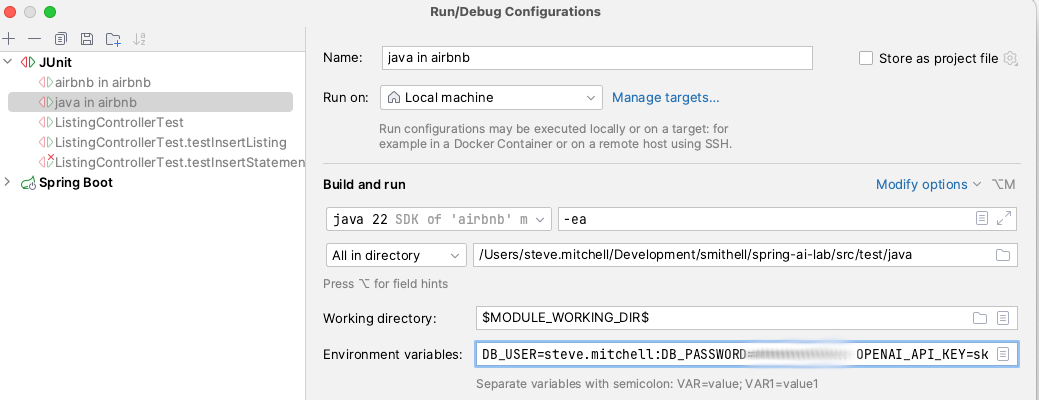
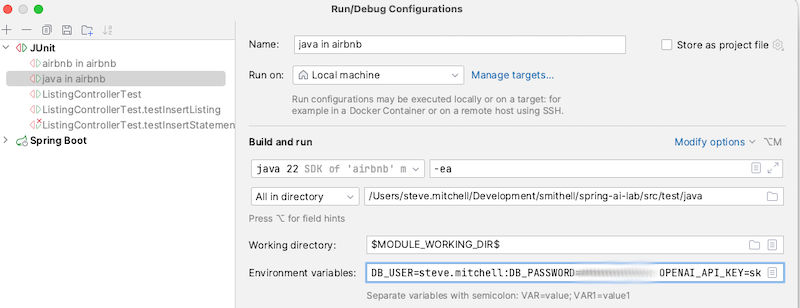
Fixed llama3 mistake in application.yml and resized images

diff --git a/README.md b/README.md
@@ -1,28 +1,32 @@
 # Spring AI Lab
+#### https://github.com/ByteworksHomeLab/spring-ai-lab
+This project is an introduction to Spring AI. It demonstrates running two LLMs, Llama 3 on the Ollama platform and OpenAI, using a combination of Maven profiles and Spring profiles to switch back and forth.
+## Audience
+The audience or this project is Spring Framework application developers who are new to artificial intelligence. It is expected that you know your way around the Spring Framework, but we don't assume any AI experience.
 
-This project configures two LLMs, Llama3 on the Ollama Platform and OpenAI, controlled with Maven and Spring profiles.
-
-# Audience
-
-The audience or this Spring Framework application developers new to artificial intelligence.
-
-# Use Cases
-
+The main takeaway is that as a Spring developer, you can start using AI in your Spring applications today as easily as you use the other Spring Framework libraries.
+## Use Cases
 Your employer asks you to:
-- Improve Customer Service by combining augmenting the company Knowledge base with AI.
-- Speed up the sales process by combining AI with a database of previously written Statements of work.
-- Improve coding efficiency and consistency by leveraging existing company code repositories and AI.
-- Host a private LLM so employees can use take advantage of AI privately, without transmitting sensitive company or client data over the public internet.
+- Improve your Spring Customer Service App by combining the company's Knowledge base with a natural language AI interface.
+- Help Sales and Marketing by enhances your Spring sales application with natural language searching of company marketing material.
+- Improve coding efficiency and consistency by embedding existing company code repositories with AI for code generation.
+- Host a private LLM (Large Language Model) so employees can use take advantage of AI internally, without transmitting sensitive company or client data over the public internet.
 
-You probably see a trend here. As a Spring Developer, you may be asked to add AI to your Spring application that augments an open source large language model with proprietary company data. These are the situations where Spring AI can help.
+You probably see a trend here. As a Spring Developer, you may be asked to add AI to your Spring application that augments an opensource large 
+language model with proprietary company data. These are the situations where Spring AI can help.
 
 ## Getting Started
 The purpose of this project is to dip your toes into the AI waters, and you'll need realistic expectations about performance.
 
 ### What about GPUs?
-The good news is that you can do this lab without a GPU as long as you have patience.
+The good news is that you can do this lab without a GPU as long as you have patience. Performance is terrible on my 2019 Intel Macbook Pro, 
+but AI response time is tolerable on my M1 MacBook Pro.
 
-[Meta's Lama 3 Requirements](https://llamaimodel.com/requirements/) say you can get by with an NVidia GeForce RTX 3000 series GPU, which has about 12 GB RAM. NLP Cloud's article [How to Install and Deploy LLaMA 3 Into Production?](https://nlpcloud.com/how-to-install-and-deploy-llama-3-into-production.html) recommends 20 GB RAM on the GPU, like an NVidia A10, for production use.
+[Meta's Lama 3 Requirements](https://llamaimodel.com/requirements/) say you can get by with an NVidia GeForce RTX 3000-series GPU, which has about 12 GB RAM. 
+NLP Cloud's article [How to Install and Deploy LLaMA 3 Into Production?](https://nlpcloud.com/how-to-install-and-deploy-llama-3-into-production.html) recommends 20 GB RAM on the GPU, like an NVidia A10, for production use. 
+
+My 10-year-old home lab workstations didn't justify an expensive GPU, so I picked up an Nvidia GeForce 1080 for $120 on eBay, 
+and it performs great in my home lab.
 
 ## Preconditions
 
@@ -33,18 +37,27 @@ This project demonstrates a few different concepts, and as a result, it has a fe
 PostgreSQL is used as the vector database for the project. To run the project, install PostgreSQL with the PGVector extension.
 
 Next, create two databases:
-- airbnb—This is the database the REST API connects to for `mvn spring-voot:run`.
-- airbnb_test—Since the Airbnb Listing model uses a vector column, and the H2 database doesn't support the vector column type, this project uses PostgreSQL for Junit tests too.
+- __airbnb__—This is the database the REST API. You connect to the `airbnb` database when running `mvn spring-boot:run`.
+- __airbnb_test__—Since the Airbnb Listing model uses a vector column, and the H2 database doesn't support the vector column type, this project uses PostgreSQL for Junit tests too. The Junit tests connect to the `airbnb_test` database.
+
+You'll need to set up the username and password for the Airbnb databases. I used Homebrew to install PostgreSQL on my Macbook, 
+so it used my MaxOS username. Normally, the username is "postgres." 
 
 ![PostgreSQL Databases](src/main/resources/static/postgresdbs.png)
 
-You'll need to set up the username and password for the Airbnb databases. I used Homebrew to install PostgreSQL on my Macbook, so it used my MaxOS username. Normally, the username is "postgres." Next, I set the password for my PostgreSQL username.
+To test the Postgres credentials, as shown above, I added connections to the Intellij Database console for both the `airbnb` and `airbnb_test` databases. 
+
+#### Load the "Prod" Schema
+The last piece of the PostgreSQL set up is to load the schema found in [src/main/resources/data/postgres-schema.ddl](src%2Fmain%2Fresources%2Fdata%2Fpostgres-schema.ddl) 
+into the `airbnb` database. Don't worry about the schema for the `airbnb_test` database. Spring Test takes care of that for you.
 
 ### 2) Ollama
 
-For this lab we are running LLMs on a Docker image of [Ollama](https://ollama.com/). Ollama is not meant to be used in production.
+For this lab, we are running LLMs on a Docker image of [Ollama](https://ollama.com/).
 
-Ollama is an open source platform for running LLMs (Large Language Models) locally. It makes it easier to get started with AI by hiding the complexities of running an LLM.  Choose the best runtime option for your situation. You can download the [Ollama Docker image](https://hub.docker.com/r/ollama/ollama), or you can [download the binary to your operating system](https://ollama.com/download/).
+Ollama is an opensource platform for running LLMs (Large Language Models) locally. It makes it easier to get started with AI by hiding the complexities 
+of running a LLM (Large Language Model). You can download the [Ollama Docker image](https://hub.docker.com/r/ollama/ollama), or you can [download the binary to your operating system](https://ollama.com/download/). 
+Choose the best runtime option for your situation.
 
 Ollama supports many different LLMs. Visit the [Ollama models page](https://ollama.com/library) for the list of supported LLMs, ranked by popularity.
 
@@ -60,7 +73,8 @@ docker run -d -v ollama:/root/.ollama -p 11434:11434 --name ollama ollama/ollama
 docker exec -it ollama ollama run llama3
 ```
 
-The last command above installs llama3 on your Ollama Docker container and starts an interactive terminal. Spring AI will call the Ollama API, but you can test the command line now.
+The last command above installs llama3 on your Ollama Docker container and starts an interactive terminal. Spring AI will call the Ollama API, 
+but you can test the command line now.
 
 ```shell
 >>> tell me a joke
@@ -76,15 +90,11 @@ Hope that made you smile! Do you want to hear another?
 
 >>>/bye
 ```
-You can install more than one LLM on Ollama, but I filled up my Docker volume when I tried.
+You can install more than one LLM on Ollama, but I filled up my Docker volume when I tried it on my Intel MacBook. There was no problem running Llama 3
+and Minstral on my M1 MacBook. Choose the best runtime option for your situation. 
 
-```shell
-docker exec -it ollama ollama run mixtral:8x22b
-pulling manifest
-pulling d0eeef8264ce...  61% ▕███████████████████████████████████                       ▏  48 GB/ 79 GB   27 MB/s  18m36s
-Error: write /root/.ollama/models/blobs/sha256-d0eeef8264ce10a7e578789ee69986c66425639e72c9855e36a0345c230918c9-partial: no space left on device
-```
-One last check before moving on to Spring AI, you can confirm that the Ollama API is ready by navigating to the [Ollama API URL](http://localhost:11434) in a web browser. It returns the text "Ollama is running."
+Confirm that the Ollama API is ready by navigating to [http://localhost:11434](http://localhost:11434) in a web browser. It returns the text 
+"Ollama is running."
 
 ### 3) OpenIA
 
@@ -100,13 +110,15 @@ export DB_PASSWORD=my-postgres-password
 export OPENAI_API_KEY=my-openai-api-key
 ```
 
-Likewise, to run the JUnit tests, you need to add the environment variables to the runtime configuration in your IDE. I'm using Intellij.
+Likewise, to run the JUnit tests or to run the application from your IDE, add the environment variables to the runtime configuration in your IDE. 
+This screenshot shows my configuration for the JUnit tests to run inside Intellij. Do the same thing for Application.java if you like.
 
 ![IntelliJ Runtime](src/main/resources/static/intellij-runtime.png)
 
 ## Project Testing
 
-You should now be able to execute the unit test from your IDE, or from the command line. If using the command line, be sure to export the environmental variables in your terminal.
+You should now be able to execute the unit test from your IDE, or from the command line. If using the command line, be sure to export the 
+environmental variables in your terminal.
 
 ```shell
 export DB_USER=my-postgres-username
@@ -120,7 +132,8 @@ mvn clean test
 
 Spring Boot also needs the environment variables exported to in the terminal or added to your IDE's runtime configuration.
 
-The default Maven profile is "ollama," and the default Spring profile is "llama3," so if that is all you need, then a simple `mvn spring-boot:run` is all you need.
+The default Maven profile is "ollama," and the default Spring profile is "llama3," so if that is all you need, then a simple `mvn spring-boot:run` 
+is all you need.
 ```shell
 # Default Maven profile is "ollama" and the default Spring profile is "llama3"
 mvn spring-boot:run 
@@ -134,7 +147,7 @@ mvn -Popenai -spring-boot:run -Dspring-boot.run.jvmArguments="-Dspring.profiles.
 ```
 
 ## Spring AI
-Next, set up a Spring AI project, starting with Java, Maven and an IDE.
+Okay, now that know how to run everything in the GitHub Project, set up a Spring AI project, starting with Java, Maven and an IDE.
 
 ### Java JVM
 Grab the latest version of Java. [SDK Man](https://sdkman.io/) is the easiest way to switch around SDK versions.
@@ -148,5 +161,35 @@ sdk use java 22.0.1-tem
 Use [Spring Initializr](https://start.spring.io) to create a project with the dependencies shown below:
 
 ![start.spring-io.jpeg](src/main/resources/static/start.spring-io.jpeg)
+
+### Set up the Application Properties
+
+A full [application.yml](src%2Fmain%2Fresources%2Fapplication.yml) file is included in this project. A bare-bones properties file for Ollama might look like this.
+
+```yaml
+spring:
+  application:
+    name: spring-ai-airbnb
+  ai:
+    ollama:
+      base-url: http://localhost:11434
+      chat:
+        model: llama3
+      embedding.model: llama3
+```
+
+For OpenAI it might look like this:
+
+```yaml
+spring:
+  application:
+    name: spring-ai-airbnb
+  ai:
+    openai:
+      api-key: ${OPENAI_API_KEY}
+      chat:
+        options:
+          model: gpt-4o
+```
 
 
